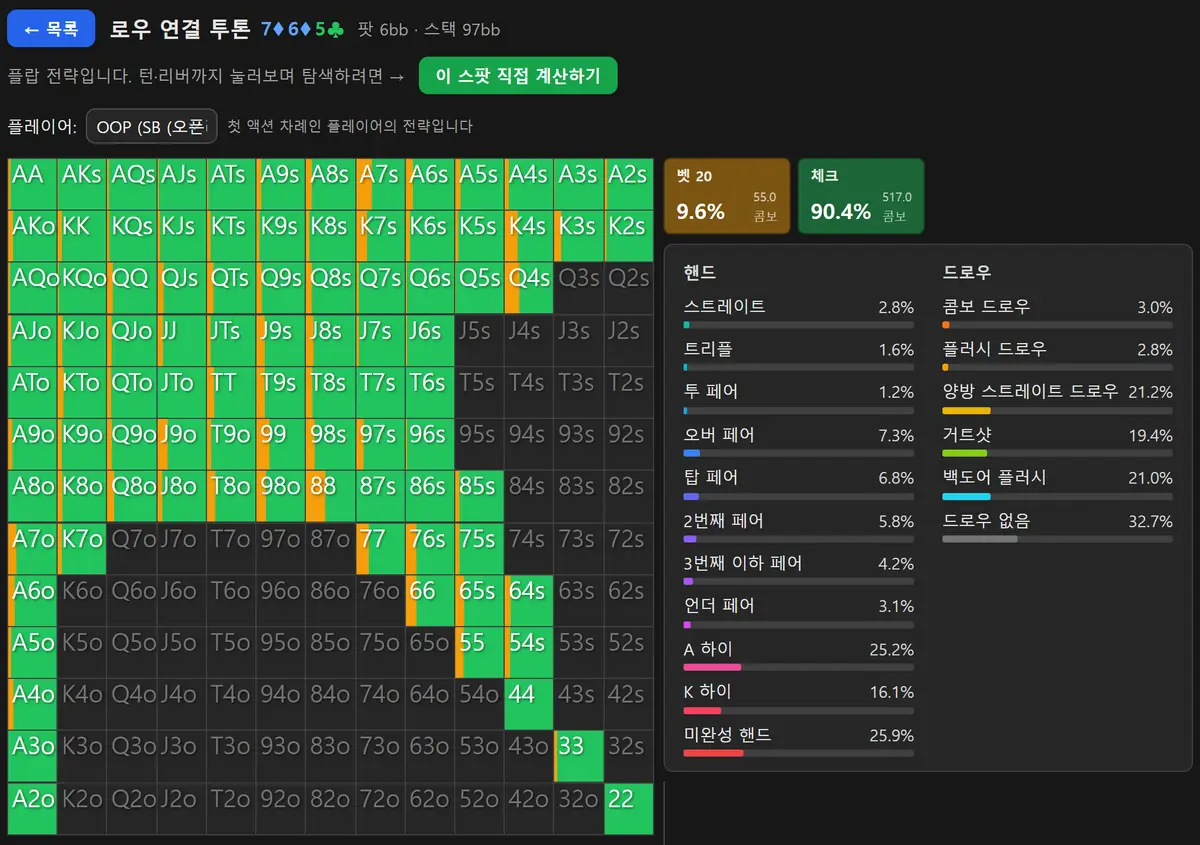
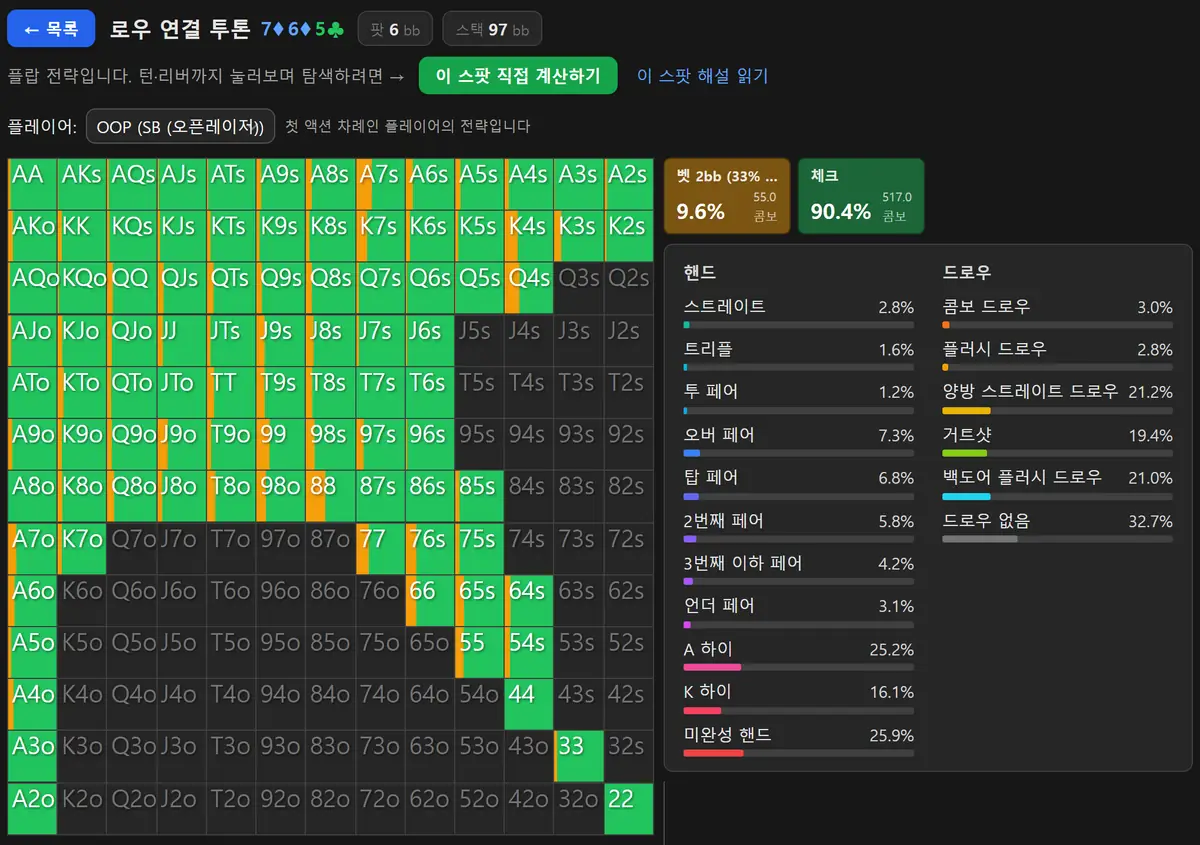
feat(solver): 캡처 파이프라인 3종 로케일화 + EN 이미지 8장 + ⑫⑬ KO 재캡처
EN ⑩~⑬ 착수를 위한 공통작업. 파이프라인이 한국어 화면에 하드코딩돼 있어 먼저 열었다.

`capture-solver-spots.mjs` — `--lang=en` 신설. 셀렉터가 전부 innerText 기반이라
화면 문자열 8종(← 목록 · 교육 예제 · ⚡ 결과 바로 보기 · 드로우 없음 · 콤보 · 핸드 · 드로우 · 전체)을
`L10N` 사전으로 뺐다. 🔴 **사전을 안 갈면 에러가 아니라 «조용히 0건»이 된다** — 주석에 박아 뒀다.
산출물은 `<key>-oop-en.png` · `data-en.json`으로 갈린다.
`make-solver-range-charts.mjs` — `--lang=en`. 등급 라벨은 솔버에서 오므로
이 파일이 «만드는» 고정 문구 넷만 사전화했다(제목·출처·에퀴티·실현율).
`convert-solver-captures.mjs` — 필터 정규식에 로케일 접미 허용.

★ 검증을 «파일이 생겼다»가 아니라 **정본 대조**로 했다 — 4스팟 × OOP/IP 8개 지표가
§4-B와 전건 일치(⑩ 83/58.6/14.09/106.9 · 144/41.4/8.41/90.3 등, 오차 0.15 이내).
🪶 EN ⑩ 드로우 패널이 **Gutshot 4.8 · Backdoor FD 16.9 · No Draw 78.3 = 100.0**으로,
M-023에서 「나머지 78.3%」를 상호배타 3행으로 고친 것이 라이브로 독립 확인됐다.

EN 이미지 8장 생성(4편 × 히어로·레인지). §9-1 가드레일대로 대표 2장을 Read로 육안 확인 —
매트릭스 글자·수치 판독 가능 · 워터마크 · 온브랜드 색 확인.

★ **⑫⑬ KO 히어로 재캡처 — 3회차 연속 «시급»이던 항목을 닫았다.** 옛 0.1bb UI(「벳 20」)가
현행 「벳 2bb (33% 팟)」으로 바뀌었다. ⑫ 본문의 「이미지가 낡았다」 단서를 지우고
헤더·스펙 410줄의 «아직 옛 캡처» 기록을 종결로 갱신했다.
🪶 재캡처본에 **백도어 플러시 21.0%**가 그대로 보인다 — M-025에서 복원한 그 행이다.

Claude-Session: https://claude.ai/code/session_01PWKBKob5UTxM7MtQcDTzfy

diff --git a/lib/posts/blind-battle-connected-board.ts b/lib/posts/blind-battle-connected-board.ts
@@ -17,7 +17,7 @@ import type { Post } from "../posts";
  *   EV 합   = 25.4 + 34.6 = 60.0 = 6.0bb = 팟 ✓
  *   EQR 역산 = 2.54 ÷ (0.496 × 6) = 85.35% (표기 85.3) ✓
  *              3.46 ÷ (0.504 × 6) = 114.42% (표기 114.4) ✓
- *   사이즈  = 2.0 ÷ 6 = 33.3% ✓ (화면에 「벳 20」 하나뿐)
+ *   사이즈  = 2.0 ÷ 6 = 33.3% ✓ (화면에 「벳 2bb (33% 팟)」 하나뿐 — 2026-08-21 재캡처 기준)
  *   보드    = 7♦ 6♦ 5♣ → 다이아 2장 + 클럽 1장 = 투톤 ✓ / 5-6-7 연속 = 연결 ✓
  *
  *   ★레인지 전수 검산: SB·BB 레인지를 솔버 매트릭스 캡처에서 그대로 옮겨 보드 블로커를 반영해
@@ -49,7 +49,10 @@ import type { Post } from "../posts";
  *      이 글의 논지가 「바뀐 것은 보드 석 장뿐」인데 스스로 무너뜨리고 있었다.
  *   5) 「체크한 뒤가 진짜 판」·FAQ가 체크 이후를 «본론»으로 단언하면서 **그 노드가 없다는 고지가
  *      없었다**(④ 178줄 · ⑦ 213줄에는 있다) → 축D 고지 신설.
- *   6) 히어로 이미지가 옛 0.1bb UI(「벳 20」)라 「화면은 이렇게 보인다」 문장과 어긋났다 →
+ *   6) ✅ **2026-08-21 종결 — 히어로를 재캡처했다.** 화면이 「벳 2bb (33%…)」 9.6%로 현행이다.
+ *      (옛 캡처는 0.1bb UI라 「벳 20」이었다. 본문 단서도 함께 지웠다 — 다시 달지 마라.)
+ *      🪶 재캡처본에서 **백도어 플러시 드로우 21.0%**가 화면에 그대로 보인다 — 이번 회차에 복원한 행이다.
+ *      ⚠ 아래는 그 정정의 «당시» 기록이다:
  *      **본문이 맞고 이미지가 낡은 것이다**(라이브 확인: 액션 열 헤더가 ).
  *      단서를 달아 두었으니 **재캡처하면 그 단서를 지워라.**
  *   7) 「이 보드에서 SB가 가진 몇 안 되는 «값이 있는» 패」 — 같은 글이 탑 페어 39 대 60으로
@@ -126,7 +129,7 @@ export const POST: Post = {
 
 콤보 수가 572와 538로 다른 것은 레인지가 달라서가 아니라 **보드에 깔린 카드가 그 카드를 쓰는 조합을 지워서**입니다. K·T·6이 깔리면 브로드웨이가 많은 레인지에서 더 많은 조합이 지워집니다.
 
-화면은 **bb 단위**로 표시됩니다 — 벳은 「벳 2.0bb (33% 팟)」처럼 금액과 팟 비율을 함께, EV는 「EV (bb)」로 보여줍니다. (⚠ 이 글에 붙은 히어로 캡처는 0.1bb 단위를 쓰던 이전 화면이라 액션 칩이 「벳 20」으로 보입니다. 지금 솔버를 여시면 「벳 2.0bb」입니다.)
+화면은 **bb 단위**로 표시됩니다 — 벳은 「벳 2.0bb (33% 팟)」처럼 금액과 팟 비율을 함께, EV는 「EV (bb)」로 보여줍니다.
 
 ## SB의 벳 빈도가 정확히 얼마인가요?
 

diff --git a/lib/posts/ace-paired-board-strategy.ts b/lib/posts/ace-paired-board-strategy.ts
@@ -8,7 +8,8 @@ import type { Post } from "../posts";
  * 수치 출처: 홀덤마스터 GTO 솔버 「교육 예제 → A 페어 보드」 라이브 재추출 (2026-08-08)
  *   scripts/capture-solver-spots.mjs sb-paired-ace → .solver-captures/data.json 이 원천.
  *
- * ★★ ⑪⑫와 조건은 같지만 «벳 사이즈가 두 가지»다 — 화면에 「벳 45」와 「벳 20」이 함께 있다.
+ * ★★ ⑪⑫와 조건은 같지만 «벳 사이즈가 두 가지»다 — 화면에 「벳 4.5bb (75% 팟)」과 「벳 2bb (33% 팟)」이 함께 있다.
+ *    (2026-08-21 재캡처 기준. 옛 캡처는 0.1bb UI라 「벳 45」·「벳 20」이었다.)
  *    ⑦⑪⑫의 「33% 한 가지」를 그대로 복사하면 틀린다.
  *
  * §13 손 검산 (전부 통과)

diff --git a/docs/gto-solver-series-spec.md b/docs/gto-solver-series-spec.md
@@ -407,7 +407,8 @@ npm run check:gto:selftest     # 게이트 자체 검증
 🪶 핸드별 표는 **487행 전수 캡처**(가상 스크롤 누적)로 얻었다. 레이즈 100% = 66·55·22(9콤보) +
    65s(2콤보) + 64s. 블러프는 98s·87s·J4s·Q4s·54s로 **전부 스트레이트 드로우**다.
 
-⚠ **⑫⑬의 `-oop.webp`는 아직 «옛 캡처»다.** 그 편을 쓸 때 `capture-solver-spots.mjs` →
+✅ **2026-08-21: ⑫⑬의 `-oop.webp`를 재캡처했다** — 이제 「벳 2bb (33% 팟)」 현행 UI다. 아래는 절차 기록이다.
+⚠ 옛 서술: 그 편을 쓸 때 `capture-solver-spots.mjs` →
 `make-solver-range-charts.mjs` → `convert-solver-captures.mjs <key>`를 돌려 교체하라(수치도 그때 다시 읽어라).
 
 ⚠ **3벳팟(⑧⑨⑩)과 블라인드전(⑪⑫⑬)은 조건이 다르다.** 솔버 교육 예제 화면에 이렇게 적혀 있다.
